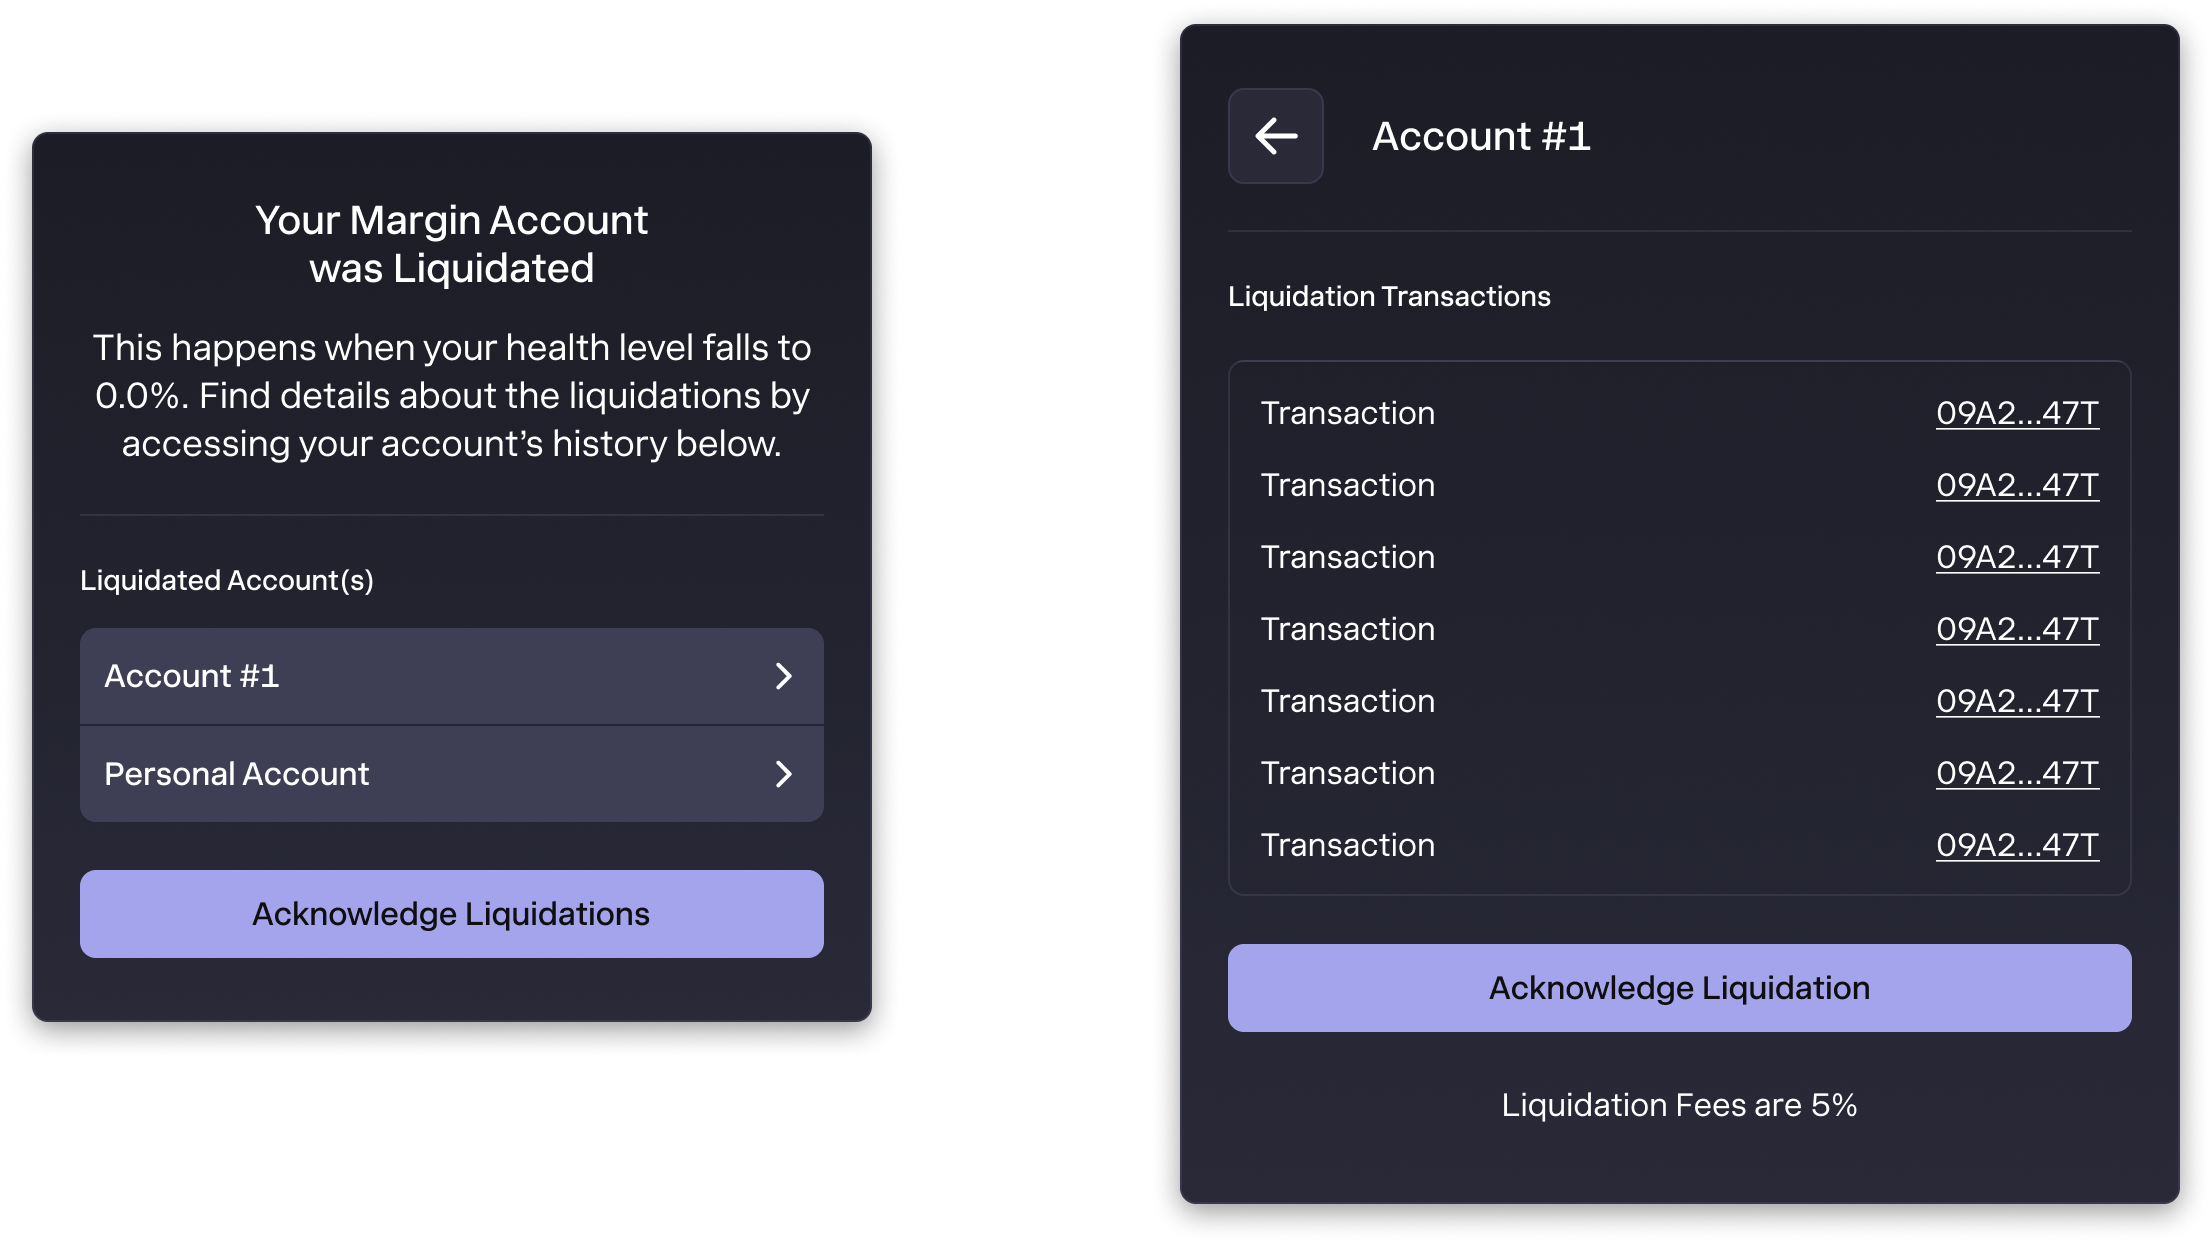
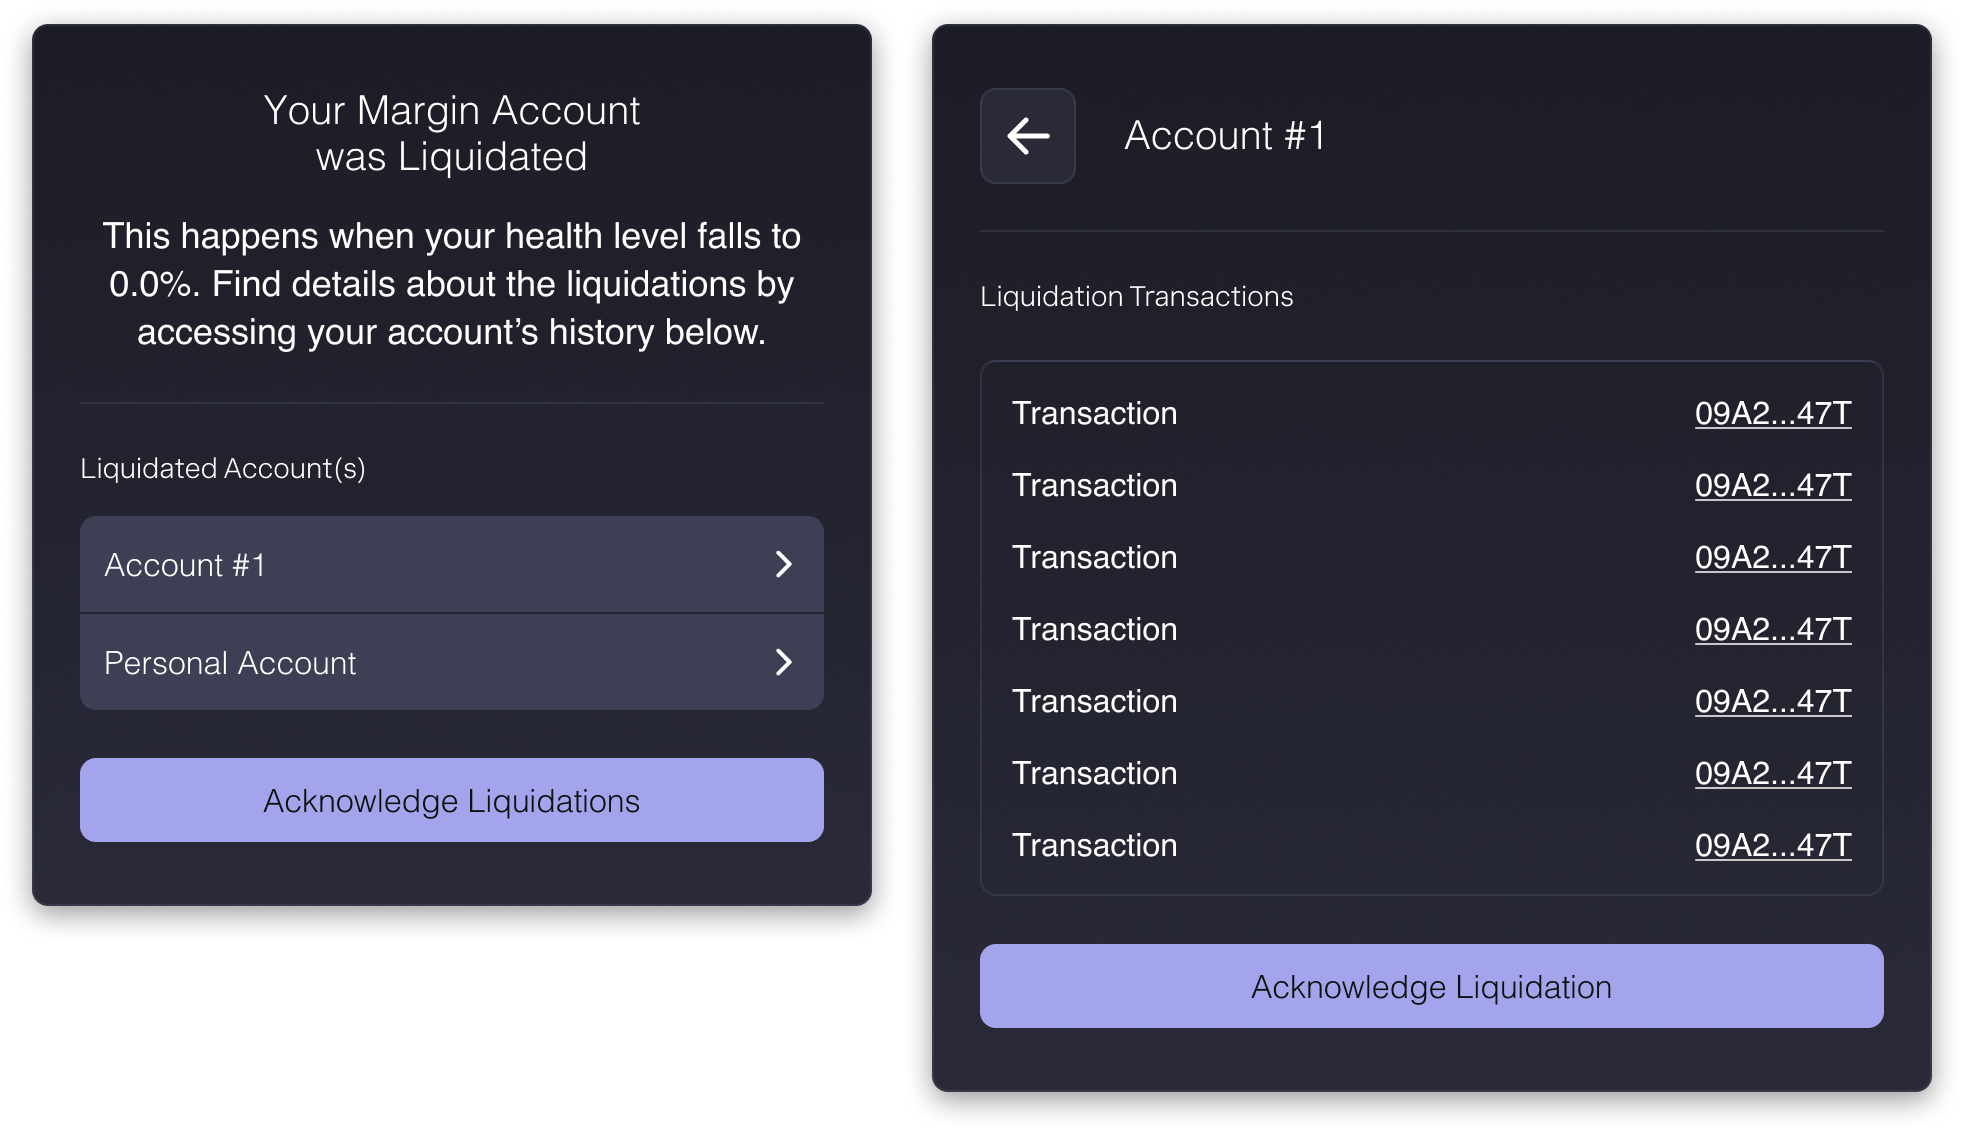
update liq

diff --git a/src/03-margin-accounts/liquidation.md b/src/03-margin-accounts/liquidation.md
@@ -65,6 +65,8 @@ To help prevent accounts from reaching this stage, Glow displays a **Health Leve
 
 - **Asset Breakdown:** When a user clicks on one of the liquidated account rows in the initial modal, they are directed to a detailed view modal. This second modal provides a comprehensive breakdown of the liquidation, liquidation fees, timestamps, and a link to the corresponding blockchain transaction on SolScan’s block explorer for full transparency.
 
+![](/img/liq-4.png)
+
 ## Managing Risk with Health Levels
 
 Glow Finance equips users with tools to manage their portfolio risk effectively by monitoring and improving their Health Level. A higher Health Level indicates a more stable account, reducing the likelihood of liquidation. For users seeking detailed guidance on strategies to maintain a healthy account, including depositing collateral, repaying borrowed assets, or adjusting leverage. For more information, you can check the [Health Level](../03-margin-accounts/health-level.md) article.
